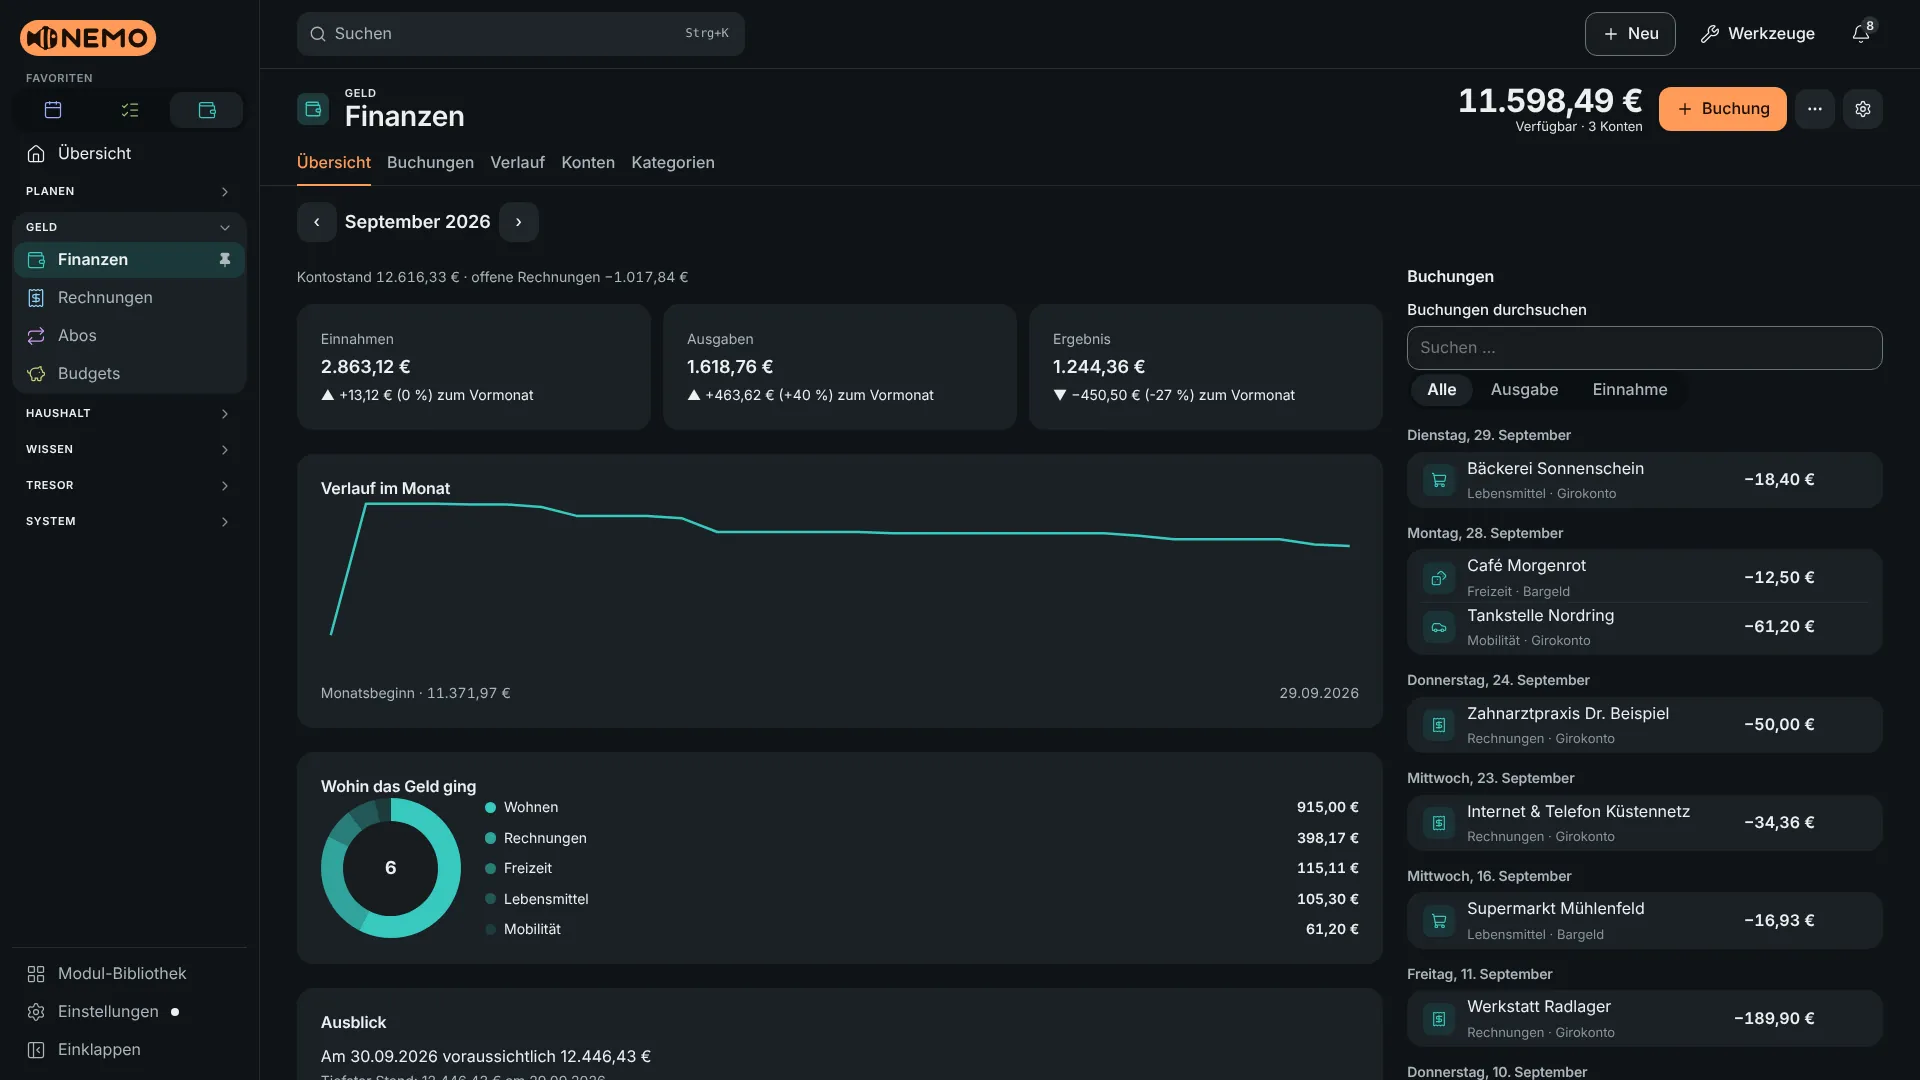
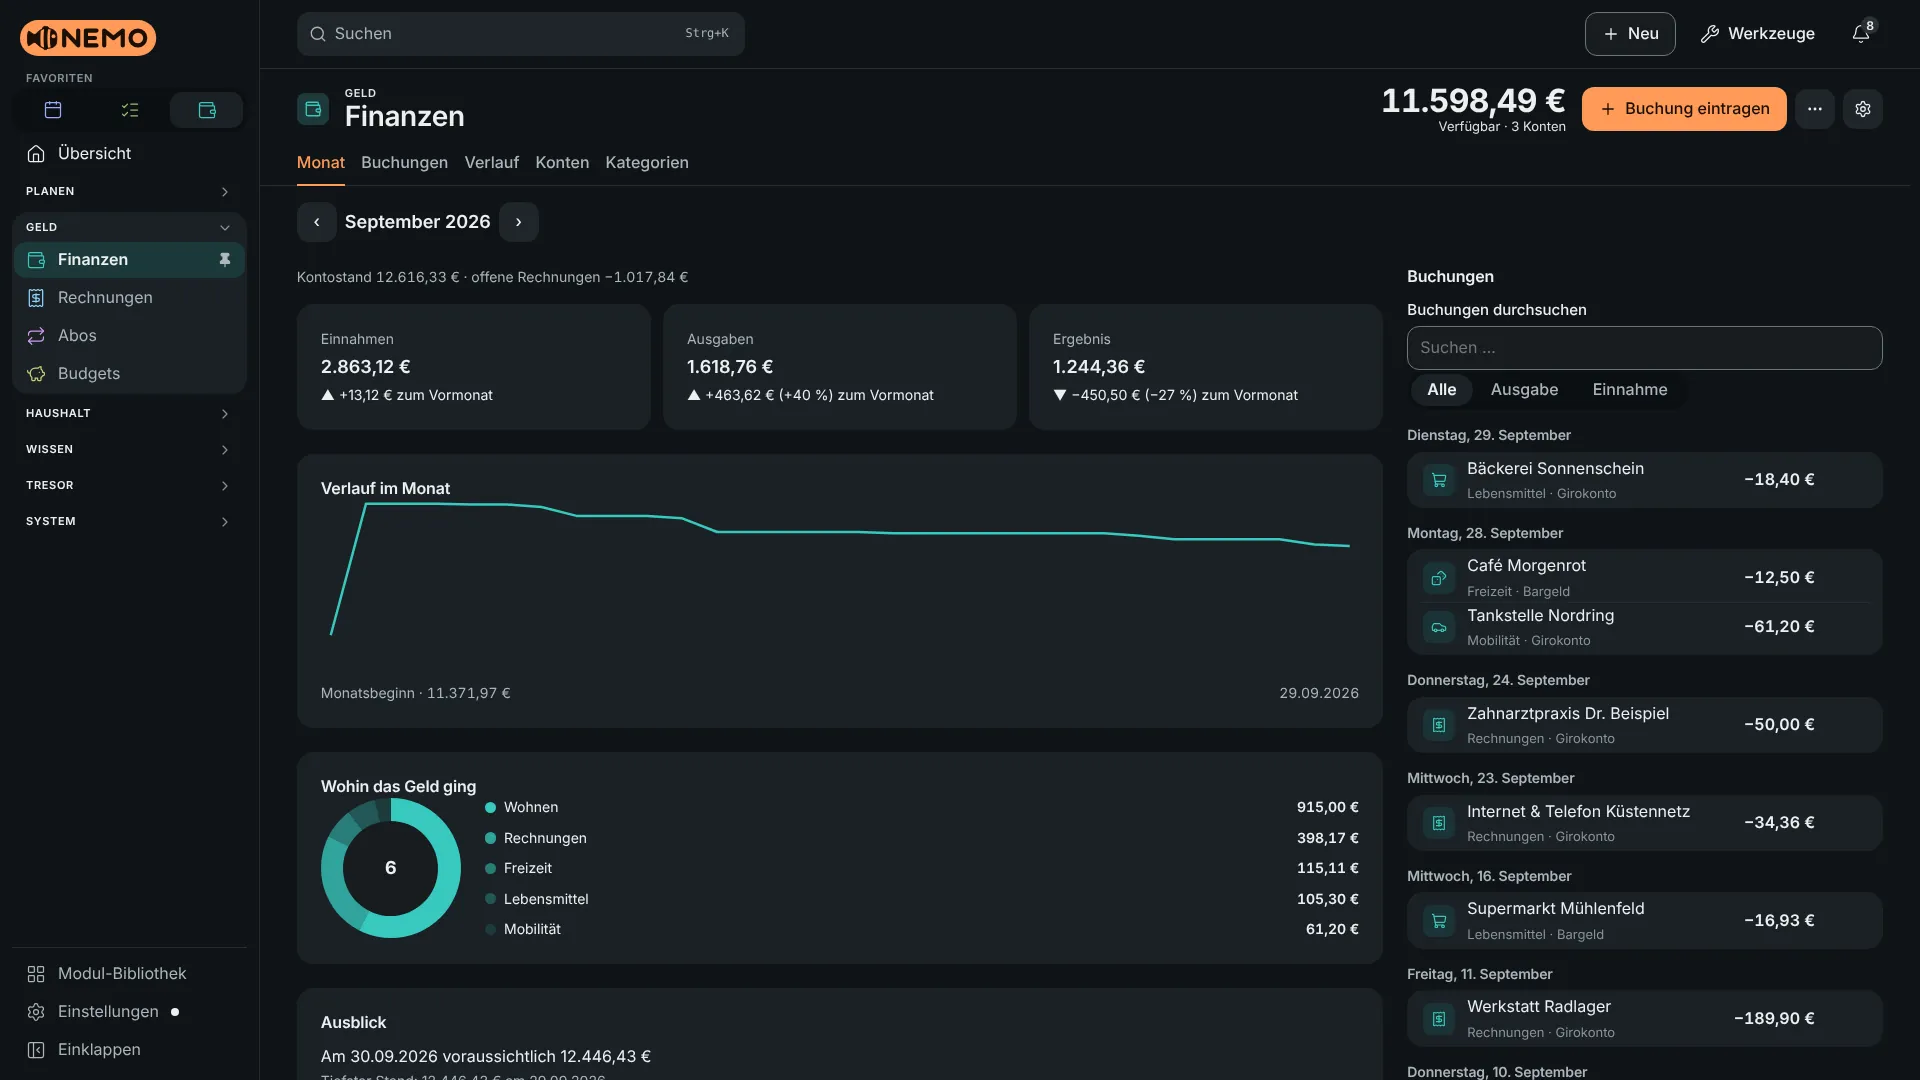
docs(readme): retake README pictures after the 4.0 round fixes
Finances, the phone calendar and the phone settings show the merged
P3-P9 state; the overview, desktop calendar, toolbox and the social
preview are unchanged.
The screenshot script now waits for the overview's "Heute" card,
which was missing or empty in some shots. Alt texts name the
"Monat" tab and the calendar's Termine/Erinnerungen tabs.

Claude-Session: https://claude.ai/code/session_019RrxT5pqDm4kzrgzVq158d

Changed region(s): [[0.7188, 0.0611, 0.9375, 0.1222], [0.1562, 0.1222, 0.375, 0.1833], [0.2188, 0.3361, 0.25, 0.3667]]

diff --git a/README.de.md b/README.de.md
@@ -120,7 +120,7 @@ Alle Bilder zeigen erfundene Beispieldaten in der deutschen Oberfläche; die App
     <td width="50%">
       <picture>
         <source media="(prefers-color-scheme: dark)" srcset="docs/assets/screenshots/finance-desktop-dark.webp">
-        <img src="docs/assets/screenshots/finance-desktop-light.webp" alt="Finanzübersicht für September mit dem verfügbaren Betrag im Kopfbereich, Einnahmen, Ausgaben und Ergebnis des Monats, einem Liniendiagramm des Kontostands, einem Ringdiagramm, wohin das Geld ging, und rechts den letzten Buchungen">
+        <img src="docs/assets/screenshots/finance-desktop-light.webp" alt="Finanzen im Reiter „Monat“ für September, mit dem verfügbaren Betrag im Kopfbereich, Einnahmen, Ausgaben und Ergebnis des Monats, einem Liniendiagramm des Kontostands, einem Ringdiagramm, wohin das Geld ging, und rechts den letzten Buchungen">
       </picture>
       <br><sub>Finanzen: Monatsübersicht mit Kontostand und Buchungen</sub>
     </td>
@@ -150,7 +150,7 @@ Alle Bilder zeigen erfundene Beispieldaten in der deutschen Oberfläche; die App
   </picture>
   <picture>
     <source media="(prefers-color-scheme: dark)" srcset="docs/assets/screenshots/calendar-phone-dark.webp">
-    <img src="docs/assets/screenshots/calendar-phone-light.webp" alt="Der Kalender auf dem Handy: der Modulkopf mit Reitern für die Planen-Module, ein Wochenumschalter, ein Umschalter für Monat, Woche, Tag, Agenda und Jahr und die Termine der Woche als Liste" width="220">
+    <img src="docs/assets/screenshots/calendar-phone-light.webp" alt="Der Kalender auf dem Handy: der Modulkopf mit Reitern für die Planen-Module, Reiter für Termine und Erinnerungen, ein Wochenumschalter, ein Umschalter für Monat, Woche, Tag, Agenda und Jahr und die Termine der Woche als Liste" width="220">
   </picture>
   <picture>
     <source media="(prefers-color-scheme: dark)" srcset="docs/assets/screenshots/tools-phone-dark.webp">

diff --git a/README.md b/README.md
@@ -120,7 +120,7 @@ All pictures show made-up sample data in the German interface; the app also spea
     <td width="50%">
       <picture>
         <source media="(prefers-color-scheme: dark)" srcset="docs/assets/screenshots/finance-desktop-dark.webp">
-        <img src="docs/assets/screenshots/finance-desktop-light.webp" alt="Finances overview for September with the available balance in the header, income, expenses and result for the month, a line chart of the balance, a donut chart of where the money went and the latest transactions on the right">
+        <img src="docs/assets/screenshots/finance-desktop-light.webp" alt="Finances in the tab “Monat” for September, with the available balance in the header, income, expenses and result for the month, a line chart of the balance, a donut chart of where the money went and the latest transactions on the right">
       </picture>
       <br><sub>Finances: month overview with balance and transactions</sub>
     </td>
@@ -150,7 +150,7 @@ All pictures show made-up sample data in the German interface; the app also spea
   </picture>
   <picture>
     <source media="(prefers-color-scheme: dark)" srcset="docs/assets/screenshots/calendar-phone-dark.webp">
-    <img src="docs/assets/screenshots/calendar-phone-light.webp" alt="The calendar on a phone: the module head with tabs for the planning modules, a week switch, a view switch for month, week, day, agenda and year, and the events of the week as a list" width="220">
+    <img src="docs/assets/screenshots/calendar-phone-light.webp" alt="The calendar on a phone: the module head with tabs for the planning modules, tabs for events and reminders, a week switch, a view switch for month, week, day, agenda and year, and the events of the week as a list" width="220">
   </picture>
   <picture>
     <source media="(prefers-color-scheme: dark)" srcset="docs/assets/screenshots/tools-phone-dark.webp">
